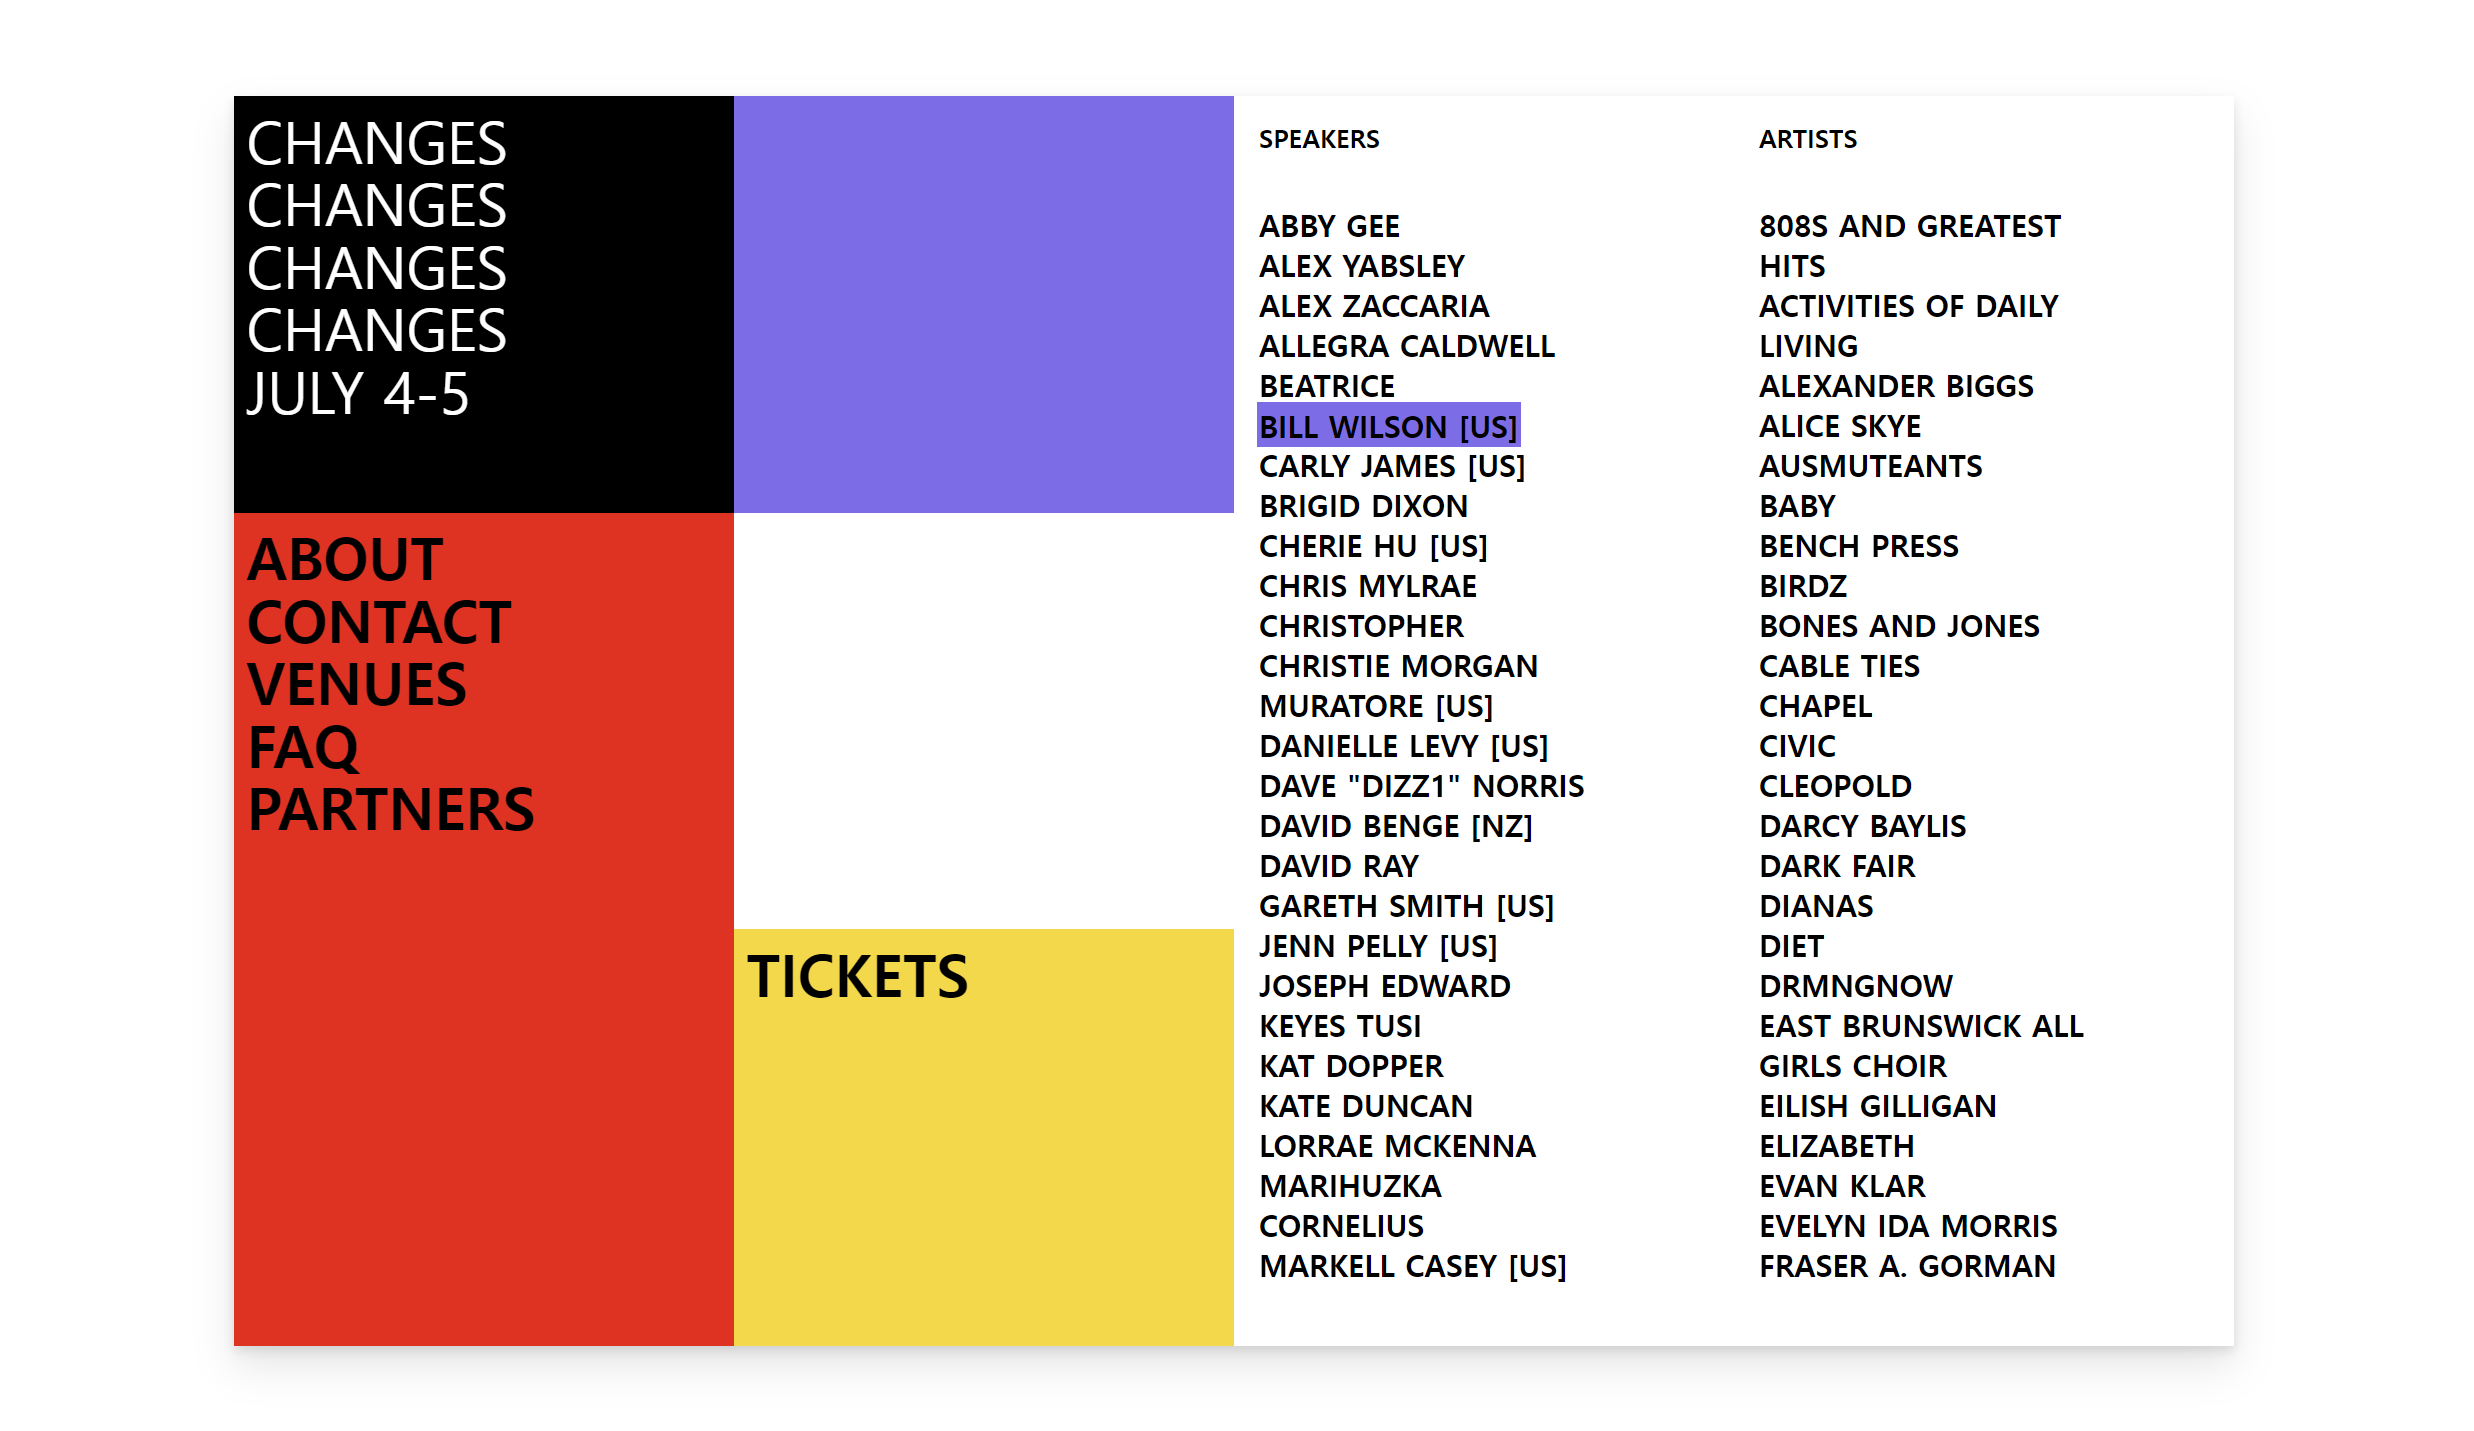
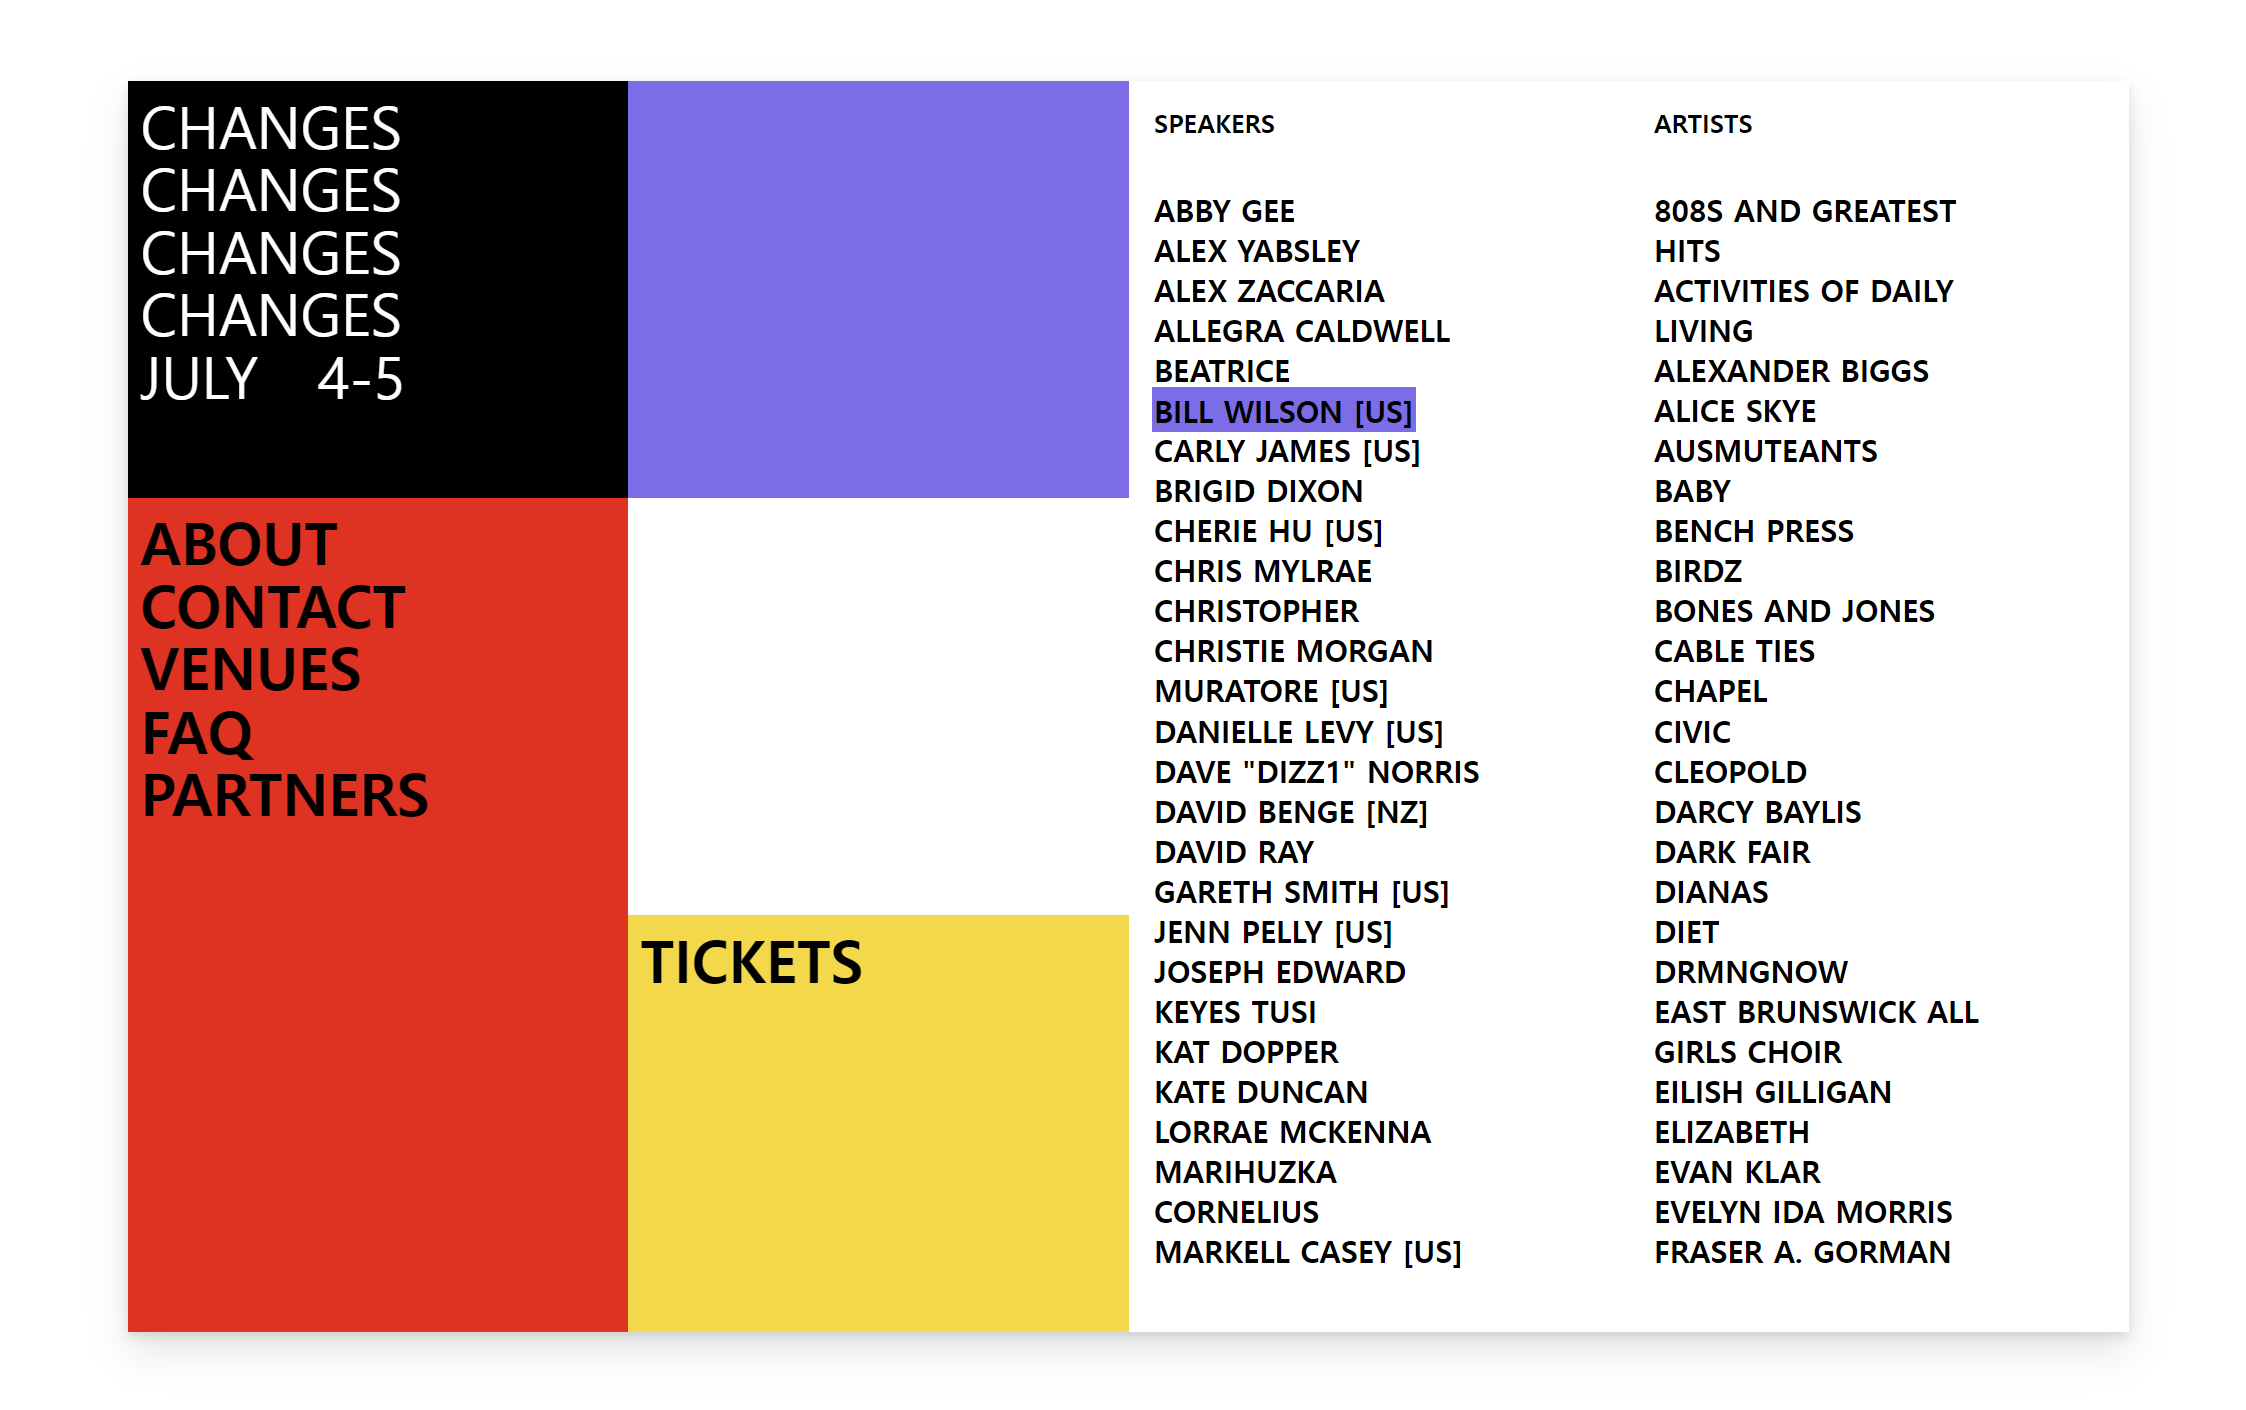
Add files via upload

Changed region(s): [[0.0312, 0.0312, 0.935, 0.9674], [0.7168, 0.0624, 0.8727, 0.905]]

diff --git a/7_assignment/submit/정윤환/style.css b/7_assignment/submit/정윤환/style.css
@@ -55,6 +55,10 @@ body {
   margin-left: -1px;
 }
 
+.letter {
+  word-spacing: 16px;
+}
+
 .redbox {
   background-color: #ff0000;
   color: black;
